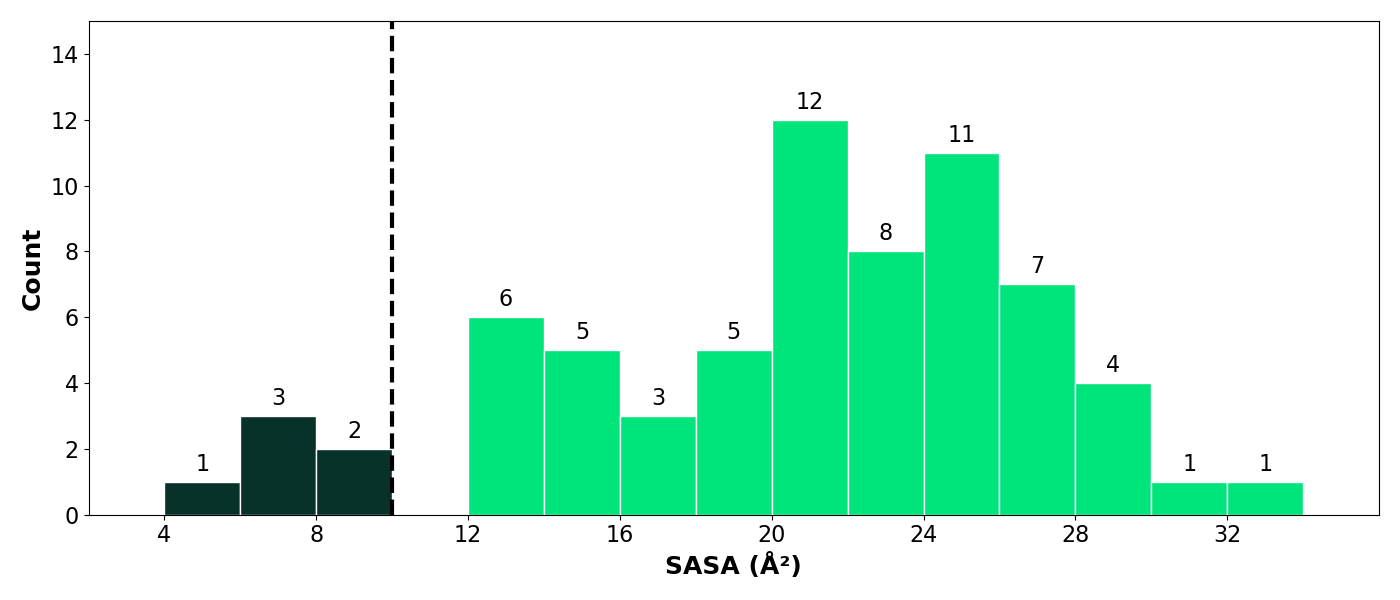
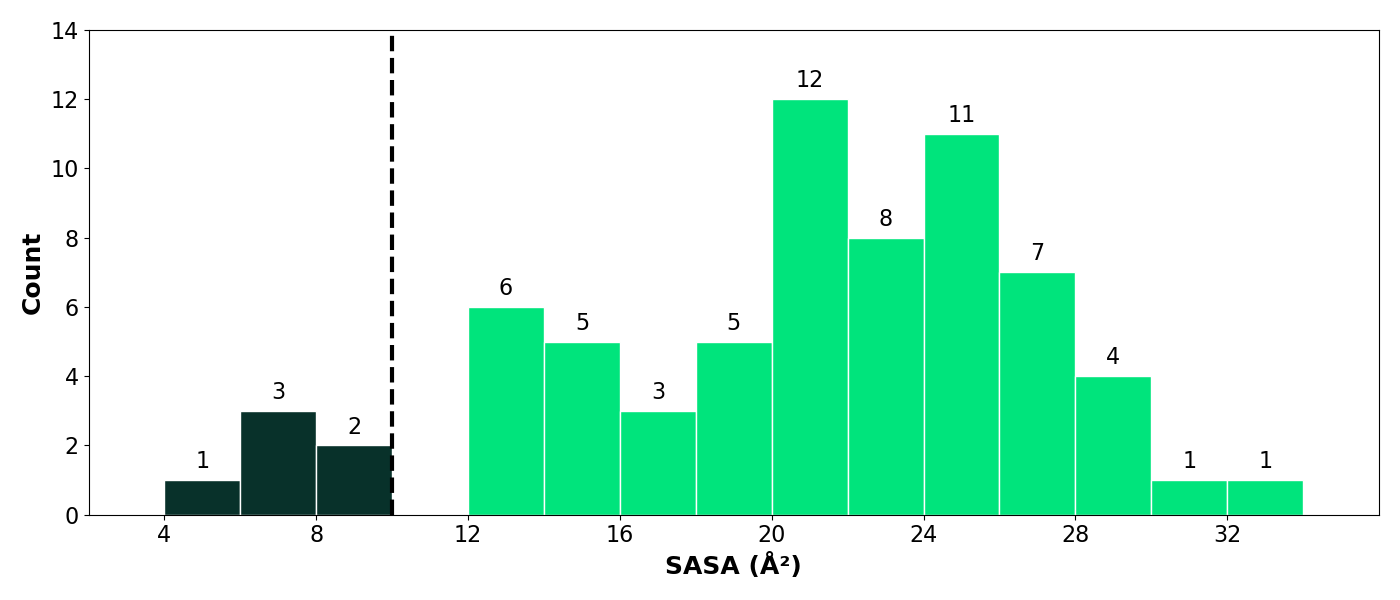
checkpoint

diff --git a/04_statistics/gen_1/03_sasa_distribution.py b/04_statistics/gen_1/03_sasa_distribution.py
@@ -79,9 +79,7 @@ ax.set_ylabel("Count", fontsize=18, fontweight="bold")
 # Add a vertical dash line at x=10
 ax.axvline(x=10, color="black", linestyle="--", linewidth=3)
 ax.set_xlim(2, 36)
-ax.set_ylim(0, 15)
-
-
+ax.set_ylim(0, 14)
 
 plt.xticks(fontsize=16)
 plt.yticks(fontsize=16)
